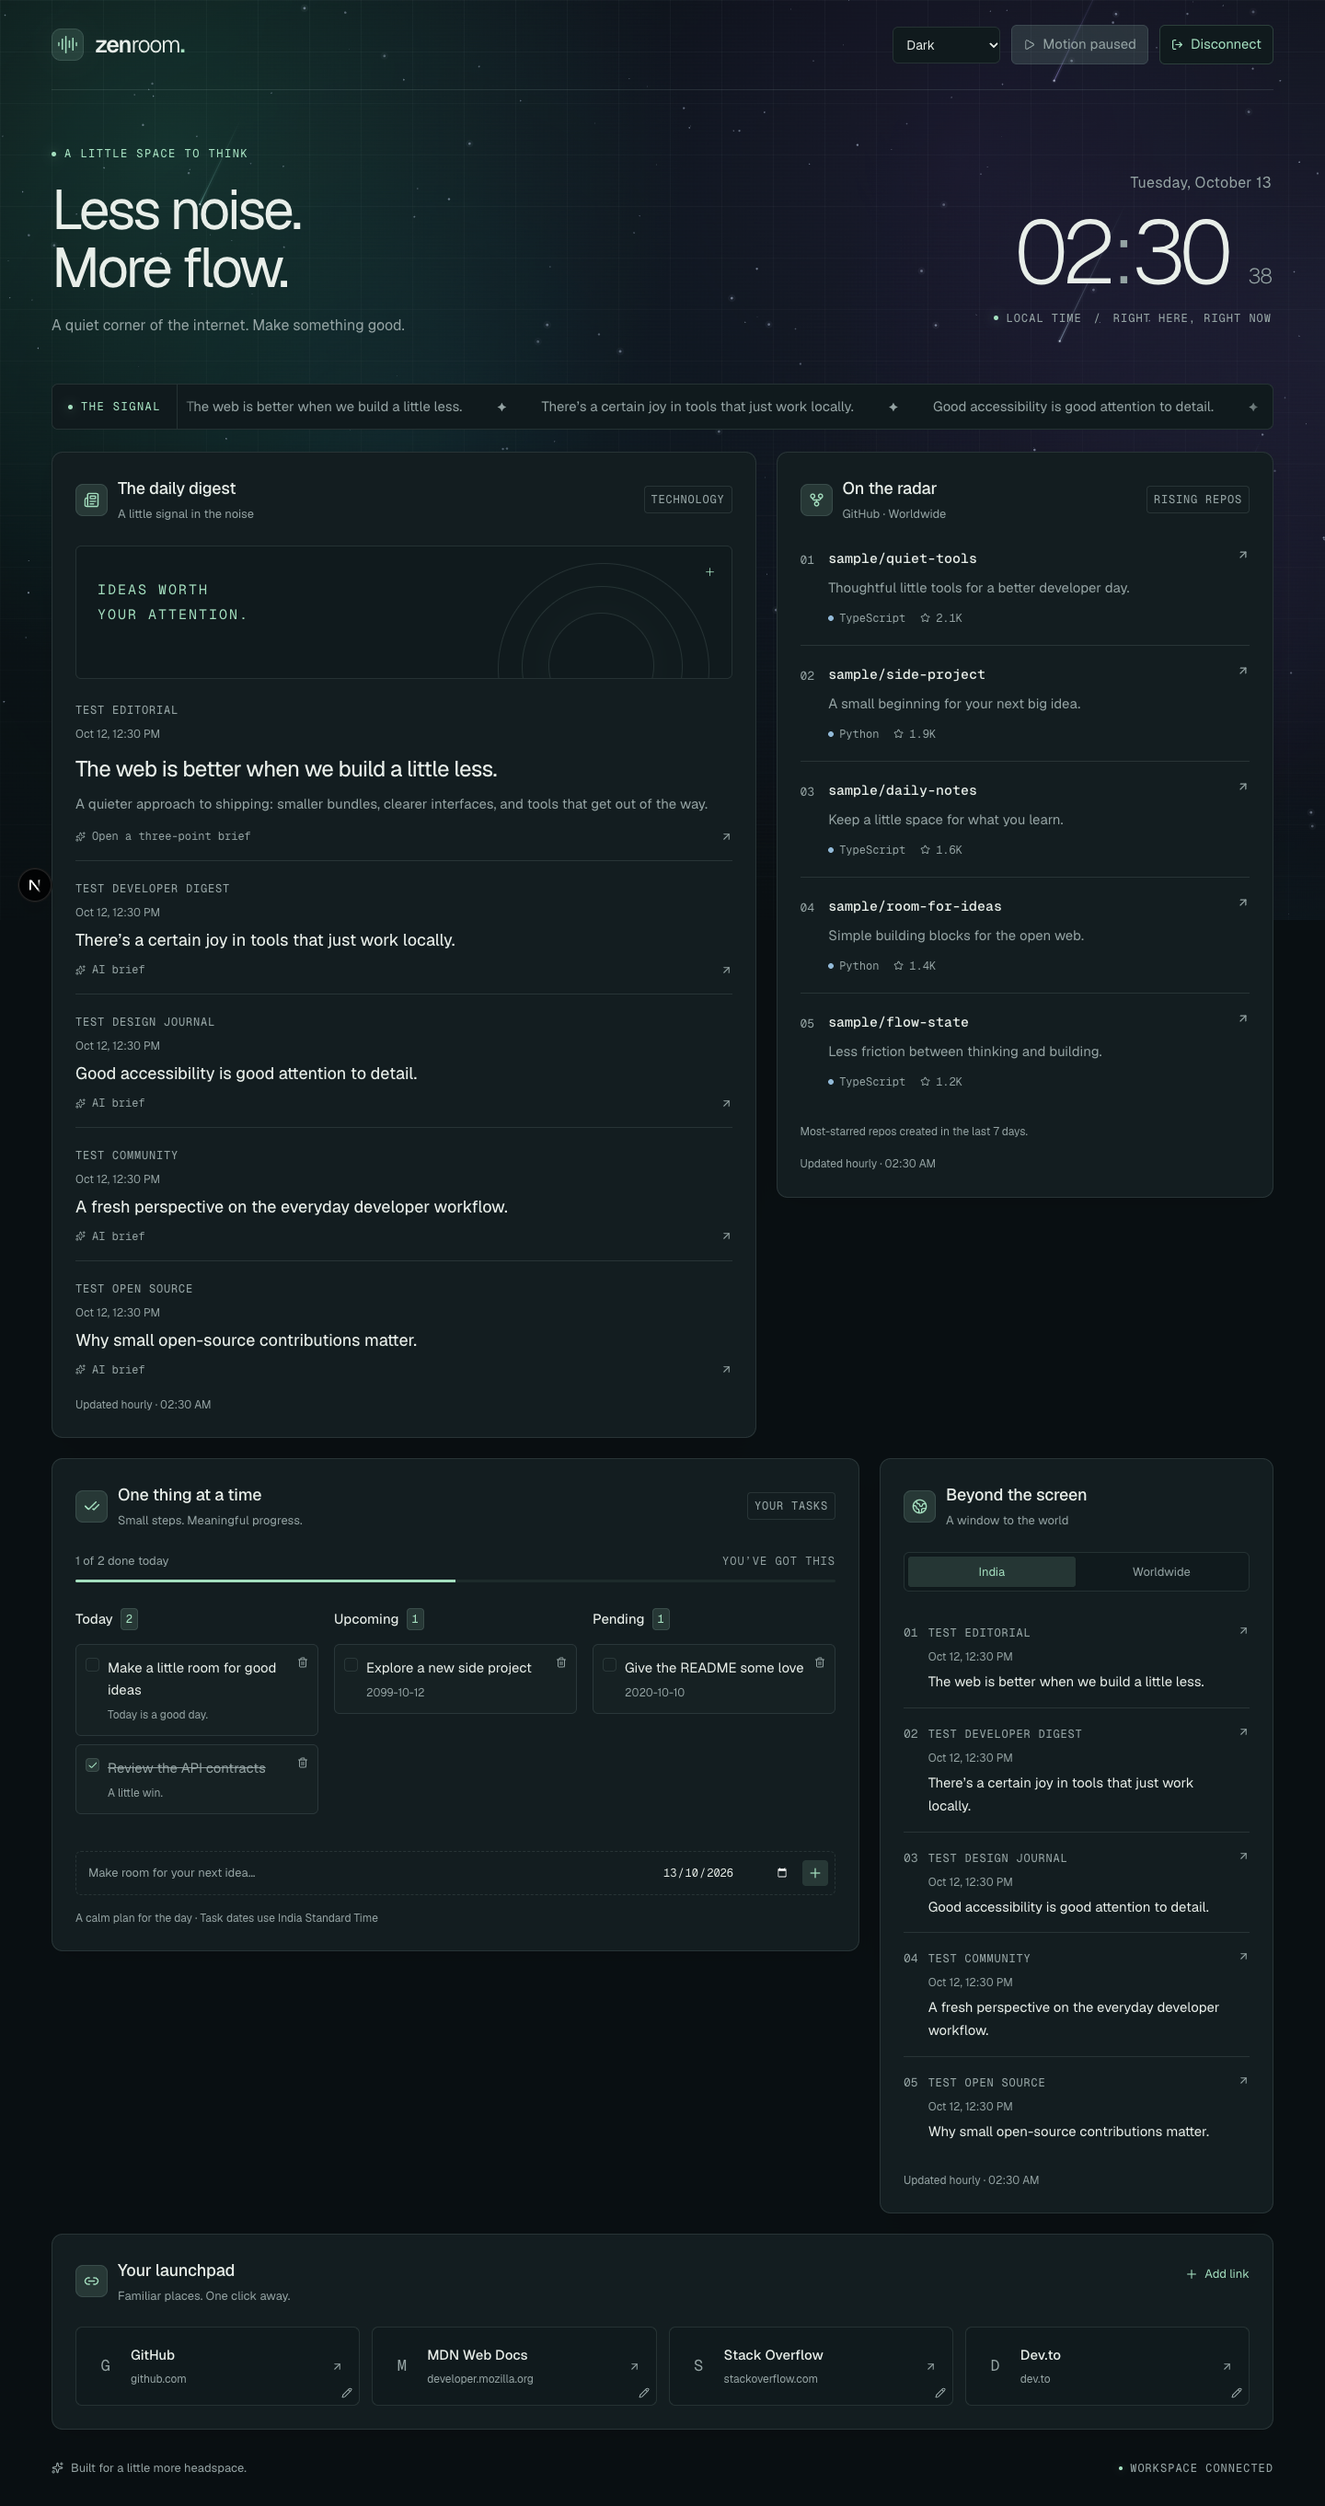
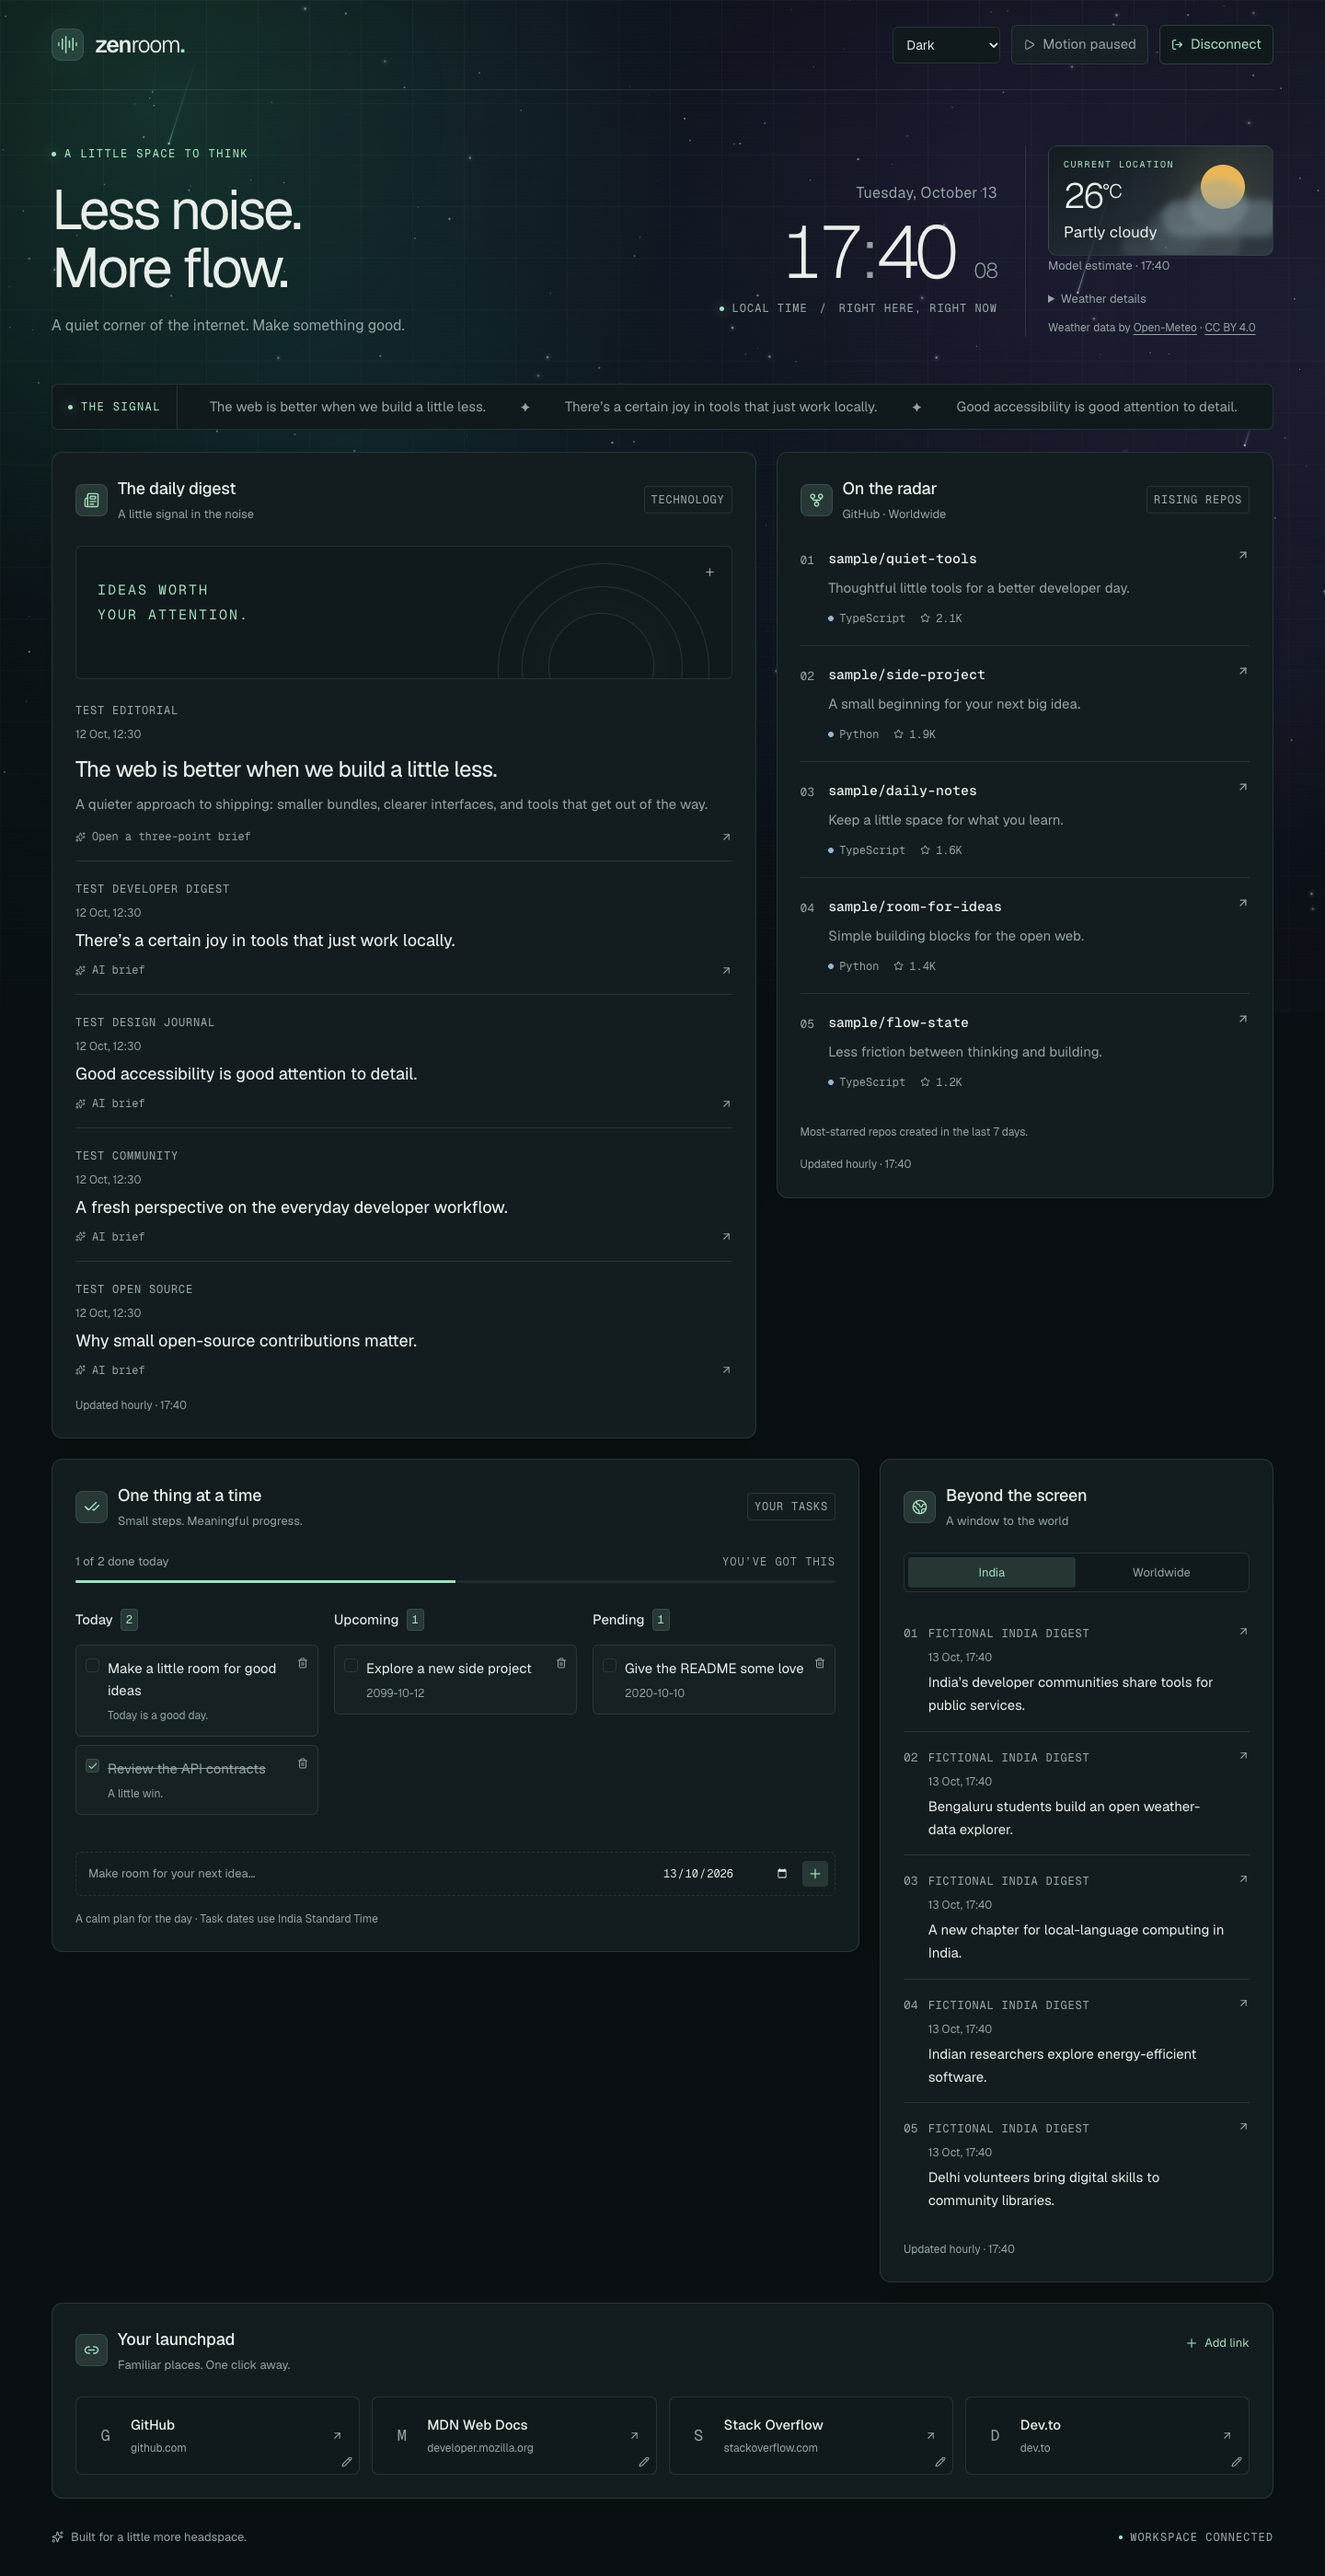
Refresh dashboard preview and weather, security and restore guides

diff --git a/docs/API.md b/docs/API.md
@@ -2,7 +2,6 @@
 
 [Setup](../README.md) · [User guide](USER_GUIDE.md)
 
-
 Browser requests use Django's database-backed session (`zen_session`, HttpOnly, SameSite=Lax, seven days). `GET /api/session/` returns the current user and masked CSRF token with no-store headers; `POST` exchanges the existing Django access token, rotates the session and CSRF token; `DELETE` logs out and invalidates the session. Both unsafe methods enforce CSRF even when unauthenticated; failed exchanges are capped at 20/minute per client IP. Browser writes send `X-CSRFToken` with `credentials: include`. Exact CORS and CSRF trusted origins permit only `http://localhost:3000`; wildcard origins are disabled. Cookies are Secure when `DJANGO_DEBUG=false` and HTTP-compatible for local development.
 
 Private SWR caches and in-flight requests are discarded on logout, expiry or identity changes; other open tabs are notified. No long-lived credential is stored in localStorage/sessionStorage. Task/link ownership remains server-enforced. DRF TokenAuthentication remains available for CLI clients; browser sessions take precedence and require CSRF. Admin uses the same Django login session plus staff authorization, so disconnect also signs out that browser's admin session. Expired/invalid sessions prompt reconnection.
@@ -14,6 +13,7 @@ Private SWR caches and in-flight requests are discarded on logout, expiry or ide
 | `/api/github-trending/` | Cached repositories |
 | `/api/news/tech/`, `/api/news/india/`, `/api/news/global/` | Cached English-language latest articles |
 | `/api/news/?category=tech` | Category alias; defaults to tech |
+| `POST /api/weather/` | `{ "latitude": 19.08, "longitude": 72.88 }` → current conditions, timestamps, source and stale flag; see [local weather](#local-weather) |
 | `POST /api/summarize/` | `{ "article_url": "https://…" }` → `{ "bullet_points": ["…", "…", "…"], "cached": false }` |
 
 FreeNewsApi uses `/v1/news` with `language=en`, `order_by=recent`, `topic=technology` for tech, subject searches for India, and `topic=world` for global. `/v1/details` supplies publisher URLs, introductions and article bodies. These are latest stories, not a popularity ranking. Details and summary-source text are cached for one hour; news cache keys are provider-specific, so old GNews data cannot reappear. India uses `in_title` searches for India/Indian/Delhi/Mumbai/Bengaluru/Modi plus recent global headlines, without any publisher-country filter. Only story title/incipit evidence qualifies; country and publisher metadata never count as relevance. Results must have valid timestamps within 72 hours, are sorted newest first, and deduplicated by canonical URL and headline similarity. At most twenty candidate details are inspected. There is no documented credible popularity signal, so this is not called trending.
@@ -25,7 +25,6 @@ Only `FREENEWS_API_KEY` is read; there is no GNews/NewsData fallback. See the [p
 Hourly Celery jobs write fresh Redis entries for 3,600 seconds and last-good copies for 24 hours. Feed GETs only read cache; empty cache returns 503, stale data is labeled. Locks suppress overlapping jobs; bounded retries handle transient provider failures.
 
 Summaries first use server-cached FreeNewsApi article text, then fall back to the existing public-HTML scraper when text is unavailable. Gemini returns exactly three validated points. Full article bodies are never included in news API responses. SSRF safeguards validate every redirect and resolved IP, pin connections, verify TLS hostnames and disable environment proxies. Limits: 2 MB, three redirects, bounded timeouts, 24,000 text characters, 10 summary requests/user/hour; successful results cached per user/model/URL for one hour. No paywall bypass or JavaScript rendering. Quota failures return an actionable error.
-
 
 ## Local weather
 

diff --git a/docs/USER_GUIDE.md b/docs/USER_GUIDE.md
@@ -40,11 +40,22 @@ mkdir -p ../zenroom-backups
 
 Check the command succeeded and the file is nonempty. Keep a separate secure copy of `.env`; a database backup is not a key backup. PostgreSQL contains tasks, links, accounts and sessions. News cache can be rebuilt.
 
-Test restore into a separate disposable installation/database first. The following restores into the database of the Compose project you run it from; use it only against an empty target you intend to populate:
+On a new laptop, clone the repository and copy your private `.env` and database dump securely. Install and start Docker. Host virtual environments and `node_modules` may not work on a different machine; rebuild the containers. Browser cookies, theme preferences and location permission do not move with the database, so reconnect the new browser.
+
+Test restore into a separate disposable installation/database first. For a fresh target, start only PostgreSQL and Redis and wait until both are healthy:
+
+```bash
+docker compose up -d db redis
+docker compose ps
+```
+
+Keep the backend stopped until the import finishes, because backend startup creates tables through migrations. The following restores into the database of the Compose project you run it from; use it only against an empty target you intend to populate:
 
 ```bash
 docker compose exec -T db sh -c 'pg_restore --exit-on-error --no-owner -U "$POSTGRES_USER" -d "$POSTGRES_DB"' < ../zenroom-backups/zenroom.dump
 ```
+
+After a successful import, run `docker compose up -d --build` to start the full stack. Keep the original installation and backups until you have checked the restored records.
 
 Do not restore over your working database without a recovery plan. Check accounts and records after restore before switching users to that installation.
 
@@ -60,6 +71,7 @@ Do not restore over your working database without a recovery plan. Check account
 | India shows fewer than five stories | Relevance and deduplication may leave fewer results. The provider title-search outage limits coverage; unrelated stories are not used to fill slots. |
 | News marked stale | The last refresh failed. The UI can retain last-good data up to 24 hours. Inspect worker errors before forcing more calls. |
 | Summary fails | Check Gemini key/model/account quota; the article may lack scrapeable text. No paid fallback runs. |
+| Weather unavailable | Connect first, allow browser/OS location access, and use HTTPS or localhost. Expand Weather details to retry; repeated requests can hit quota limits. |
 | GitHub unavailable | Check worker/network/rate limits. An optional backend GitHub token raises quota; no private repo scope is needed. |
 | Database login fails after editing `.env` | Existing volumes retain their original database password. Restore the matching env value or rotate the database role password. |
 | Port already allocated | Stop the older local server or conflicting container. Changing frontend origin also requires backend CORS/CSRF configuration. |

diff --git a/README.md b/README.md
@@ -1,8 +1,8 @@
 # Developer Zen Room
 
-![Dashboard UI Screenshot](./docs/hero.png)
+![Dark dashboard with clock, local weather, news, GitHub repositories, tasks and quick links](./docs/hero.png)
 
-*Preview from browser tests with fictional fixture data. Your installation starts with your own account and feeds.*
+*Current dashboard with fictional test news, repositories, tasks and weather. Your installation uses your own account and feeds.*
 
 A quiet second-monitor dashboard for developers. Read tech, India and world news; get three-point article summaries; find rising GitHub repositories; manage tasks and quick links. Includes opt-in local weather with condition-based effects, a clock, headline ticker, Dark/Light/Eye Comfort themes, ambient pause and reduced-motion support. Cards use a responsive, non-resizable grid.
 
@@ -55,6 +55,7 @@ Edit root `.env` in your editor:
 | News | Your `FREENEWS_API_KEY` from [FreeNewsApi.io](https://www.freenewsapi.io/). This is the sole news provider. |
 | AI summaries | Your `GEMINI_API_KEY` from [Google AI Studio](https://aistudio.google.com/api-keys). Choose a structured-output model available to your account with `GEMINI_MODEL`. |
 | GitHub repositories | Optional `GITHUB_TOKEN` for higher public API quota. Private-repository permissions are unnecessary. |
+| Local weather | No API key. Allow location access after connecting; Django calls Open-Meteo. |
 | Tasks, links, themes and clock | No external provider account needed. |
 
 Keep Gemini on the Free tier if you want to avoid usage charges. Check [current model availability, quotas and data-use terms](https://ai.google.dev/gemini-api/docs/pricing); free-tier content may be used to improve Google's products. The configured model is `gemini-3.5-flash-lite`; confirm its availability and free-tier quota in your account. There is no paid-model fallback. Hosting and external services have their own terms and limits.
@@ -123,7 +124,6 @@ The [user guide](docs/USER_GUIDE.md) covers everyday use, troubleshooting, backu
 ## Development and deployment
 
 See [Contributing](CONTRIBUTING.md) for checks and local development, and [Deployment](docs/DEPLOYMENT.md) for production requirements. The supplied Compose file runs development servers. The [Checks workflow](.github/workflows/checks.yml) runs backend tests and frontend lint/build/browser tests without provider secrets. Hosted deployments and backups need separate setup.
-
 
 ## License and credits
 

diff --git a/SECURITY.md b/SECURITY.md
@@ -16,6 +16,12 @@ A Django API token can establish a browser session and can authenticate CLI requ
 
 Browser authentication uses a seven-day HttpOnly, SameSite=Lax Django session, masked CSRF tokens and exact allowed origins. HTTPS enables Secure cookies when debug is off. Task/link queries enforce ownership; disconnect and expiry clear private UI caches. Redis feed caches are shared, and summary caches are user-scoped. Admin grants broad access to trusted staff and shares the browser session; it is not a tenant-scoped dashboard.
 
+Next.js issues a fresh CSP script nonce for each dynamically rendered page. Production blocks unapproved inline scripts and eval; inline styles remain allowed for motion. Summary and weather quotas use atomic Redis counters. These controls supplement authentication and safe rendering.
+
+Weather shares rounded coordinates with Open-Meteo through Django after explicit location permission. The browser keeps coordinates in memory; Redis caches weather by approximate area. Do not record location request bodies in logs or monitoring tools.
+
 The article scraper checks public addresses, redirects and response bounds. Keep these protections when changing networking code. Development servers, debug output and local Compose configuration are not suitable for public deployment. See [deployment requirements](docs/DEPLOYMENT.md), review dependency advisories and run Django's deployment checks after configuring a production environment.
+
+Full-project transfer archives may include `.env`, Git history and database records. Keep them private; they are not public release bundles.
 
 Logs, Playwright traces and screenshots can contain account information. Inspect and redact them before sharing. The repository does not promise a formal security audit.
